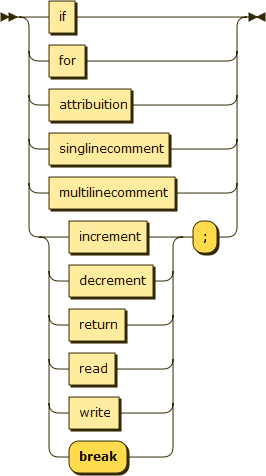
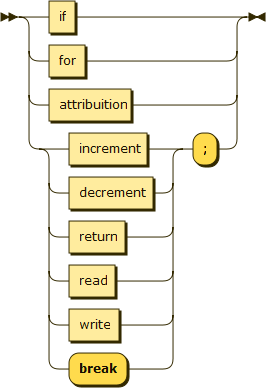
Updated documentation

diff --git a/docs/index.html b/docs/index.html
@@ -182,17 +182,15 @@
       </p>
       
       <p>no references</p><br><p style="font-size: 14px; font-weight:bold"><a name="statement">statement:</a></p>
-      <img border="0" src="diagram/statement.png" height="476" width="266" usemap="#statement.map"><map name="statement.map">
+      <img border="0" src="diagram/statement.png" height="388" width="266" usemap="#statement.map"><map name="statement.map">
          <area shape="rect" coords="49,1,75,33" href="#if" title="if">
          <area shape="rect" coords="49,45,85,77" href="#for" title="for">
          <area shape="rect" coords="49,89,131,121" href="#attribuition" title="attribuition">
-         <area shape="rect" coords="49,133,169,165" href="#singlinecomment" title="singlinecomment">
-         <area shape="rect" coords="49,177,175,209" href="#multilinecomment" title="multilinecomment">
-         <area shape="rect" coords="69,221,147,253" href="#increment" title="increment">
-         <area shape="rect" coords="69,265,153,297" href="#decrement" title="decrement">
-         <area shape="rect" coords="69,309,125,341" href="#return" title="return">
-         <area shape="rect" coords="69,353,115,385" href="#read" title="read">
-         <area shape="rect" coords="69,397,119,429" href="#write" title="write"></map>
+         <area shape="rect" coords="69,133,147,165" href="#increment" title="increment">
+         <area shape="rect" coords="69,177,153,209" href="#decrement" title="decrement">
+         <area shape="rect" coords="69,221,125,253" href="#return" title="return">
+         <area shape="rect" coords="69,265,115,297" href="#read" title="read">
+         <area shape="rect" coords="69,309,119,341" href="#write" title="write"></map>
       
       <p>
          
@@ -200,8 +198,6 @@
          ::= <a href="#if" title="if" shape="rect">if</a>
            | <a href="#for" title="for" shape="rect">for</a>
            | <a href="#attribuition" title="attribuition" shape="rect">attribuition</a>
-           | <a href="#singlinecomment" title="singlinecomment" shape="rect">singlinecomment</a>
-           | <a href="#multilinecomment" title="multilinecomment" shape="rect">multilinecomment</a>
            | ( <a href="#increment" title="increment" shape="rect">increment</a> | <a href="#decrement" title="decrement" shape="rect">decrement</a> | <a href="#return" title="return" shape="rect">return</a> | <a href="#read" title="read" shape="rect">read</a> | <a href="#write" title="write" shape="rect">write</a> | 'break' ) ';'</pre></div>
          
       </p>
@@ -273,42 +269,6 @@
          <ul>
             
             <li><a href="#for" title="for">for</a></li>
-            
-            <li><a href="#statement" title="statement">statement</a></li>
-            
-         </ul>
-         
-      </p><br><p style="font-size: 14px; font-weight:bold"><a name="singlinecomment">singlinecomment:</a></p>
-      <img border="0" src="diagram/singlinecomment.png" height="68" width="258">
-      
-      <p>
-         
-         <div class="ebnf"><pre><a href="#singlinecomment" title="singlinecomment" shape="rect">singlinecomment</a>
-         ::= '//' [^\n]*</pre></div>
-         
-      </p>
-      
-      <p>referenced by:
-         
-         <ul>
-            
-            <li><a href="#statement" title="statement">statement</a></li>
-            
-         </ul>
-         
-      </p><br><p style="font-size: 14px; font-weight:bold"><a name="multilinecomment">multilinecomment:</a></p>
-      <img border="0" src="diagram/multilinecomment.png" height="152" width="530">
-      
-      <p>
-         
-         <div class="ebnf"><pre><a href="#multilinecomment" title="multilinecomment" shape="rect">multilinecomment</a>
-         ::= '/*' ( [^*] | '*'+ [^*/] )* '*'* '*/'</pre></div>
-         
-      </p>
-      
-      <p>referenced by:
-         
-         <ul>
             
             <li><a href="#statement" title="statement">statement</a></li>
             

diff --git a/CONTRIBUTING.md b/CONTRIBUTING.md
@@ -1,6 +1,6 @@
 # Guia de Contribuição para AquaScript
 
-Olá! Estou feliz que você tem interesse em colaborar para o projeto. Antes de submeter suas contribuições, tenha certeza de reservar um momento para ler os seguintes tópicos:
+Olá! Estou feliz que você tem interesse em colaborar no projeto. Antes de submeter suas contribuições, tenha certeza de reservar um momento para ler os seguintes tópicos:
 
 - [Código de Conduta](CODE_OF_CONDUCT.md)
 - [Diretrizes de _Issues_](#diretrizes-de-issues)

diff --git a/CODE_OF_CONDUCT.md b/CODE_OF_CONDUCT.md
@@ -45,4 +45,4 @@ Este Código de Conduta é adaptado de [Contributor Covenant][homepage], versão
 [homepage]: http://contributor-covenant.org
 [version]: http://contributor-covenant.org/version/1/4/
 
-_Este Código de Conduta está em sua fase inicial e pode sofre mudanças a qualquer momento._
+_Este Código de Conduta está em sua fase inicial e pode sofrer mudanças a qualquer momento._

diff --git a/README.md b/README.md
@@ -103,8 +103,8 @@ Variáveis em AquaScript são sempre inicializadas com algum valor. O operador d
 ```
 
 a: 3; // a recebe o valor 3 e é do tipo number
-b: 4.5 // b recebe o valor 4.5 e é do tipo number
-c: a + b // c agora vale 7.5
+b: 4.5; // b recebe o valor 4.5 e é do tipo number
+c: a + b; // c agora vale 7.5
 
 d: "Foo";
 e: "bar";
